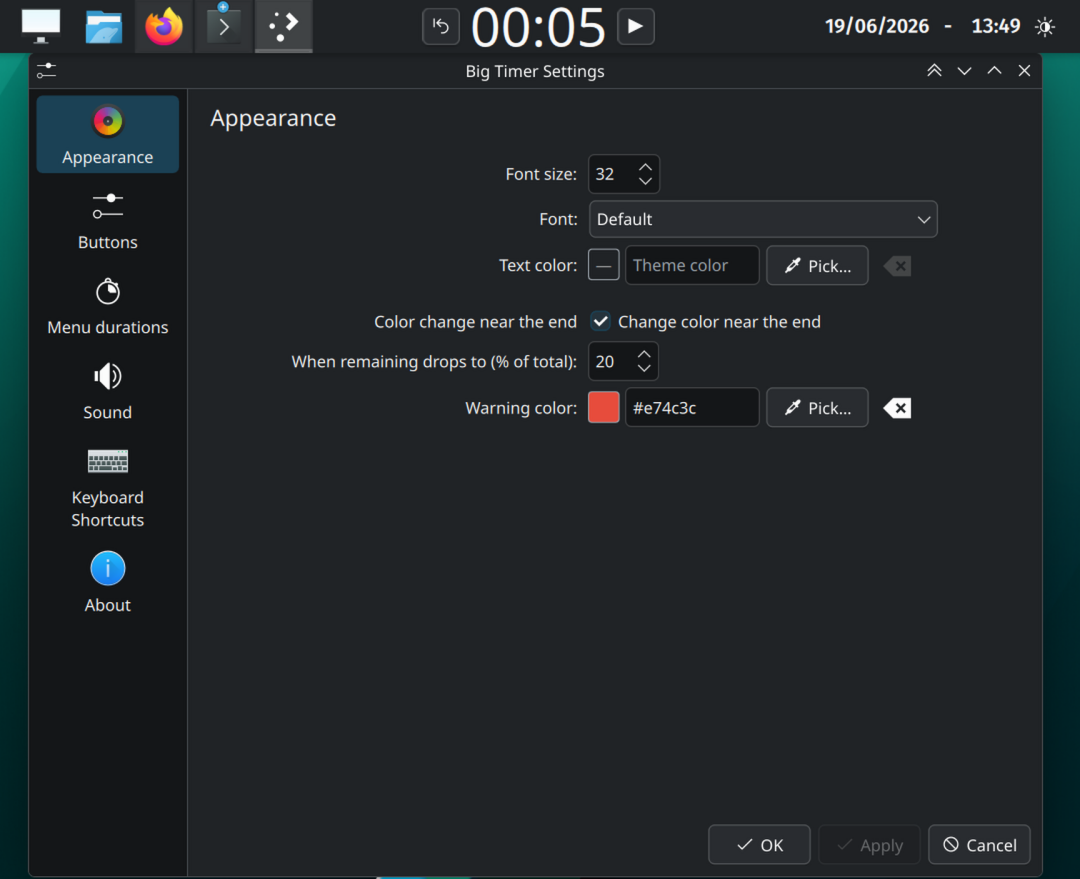
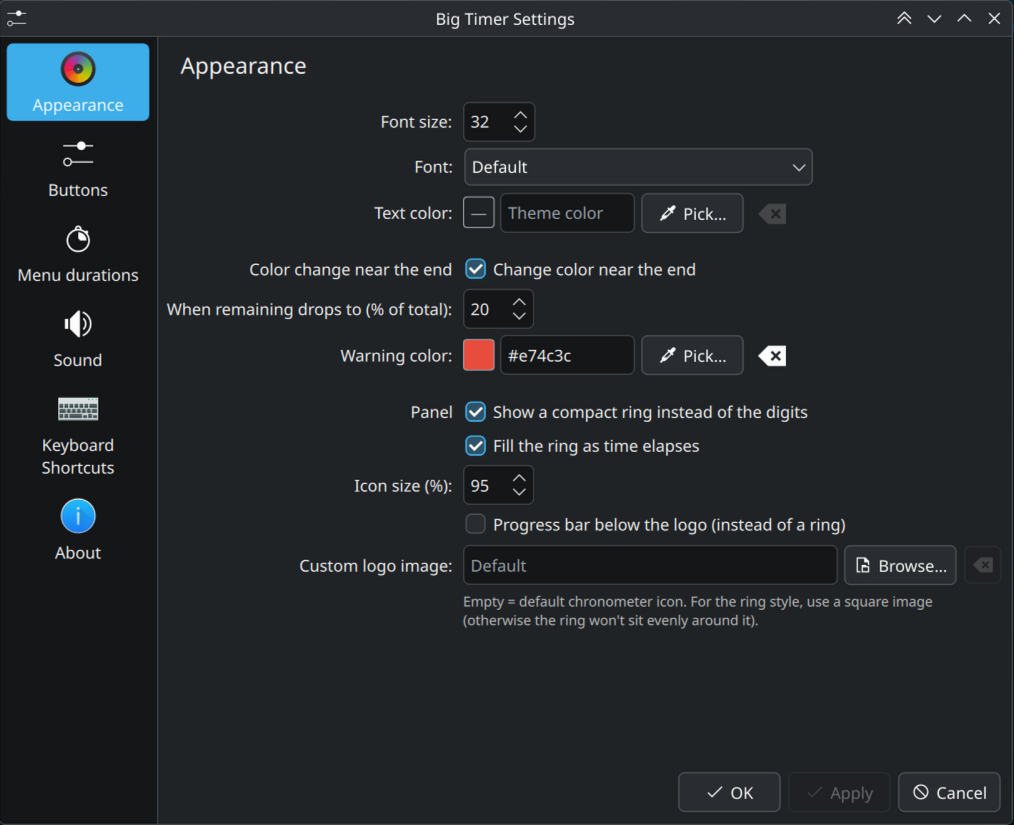
Captures : mode compact + settings à jour ; README/STORE
- screenshots/compact.png : nouvelle capture du mode compact (anneau/barre + logo)
- screenshots/settings.png : mise à jour (options compactes)
- README : mode compact ajouté aux fonctions + capture
- STORE : liste des captures à jour

diff --git a/STORE.md b/STORE.md
@@ -66,8 +66,8 @@ First public release.
 - Custom end sound (MP3) and end-of-countdown notification
 - 26 languages (EU + Russian + Ukrainian)
 
-## Screenshots to attach (capture before upload)
-1. Widget on the desktop with big digits
-2. Right-click menu (Start / Reset / Set durations / Set a time…)
-3. Settings — Appearance (font, color, warning color)
-4. Settings — Menu durations (the list editor)
+## Screenshots to attach (in screenshots/)
+1. `widget.png` — widget on the desktop with big digits
+2. `panel.png` — widget in a panel
+3. `compact.png` — compact panel mode (progress ring / bar around a logo)
+4. `settings.png` — settings (Appearance, incl. the compact options)

diff --git a/README.md b/README.md
@@ -20,6 +20,8 @@ in a panel.
   threshold (% of total)
 - **End sound**: the bundled beep (repeatable N times, or off) or a **custom MP3**, plus an
   optional **desktop notification**
+- **Compact panel mode** (optional): a logo with the progress as a **ring** around it or a
+  **bar** below it — with a **custom logo image** — for thin panels (click to open the full timer)
 - **26 languages** (all official EU languages + Russian + Ukrainian)
 
 ## Screenshots
@@ -27,6 +29,10 @@ in a panel.
 In a panel:
 
 ![In a panel](screenshots/panel.png)
+
+Compact panel mode (ring / bar around a logo):
+
+![Compact mode](screenshots/compact.png)
 
 Settings:
 
